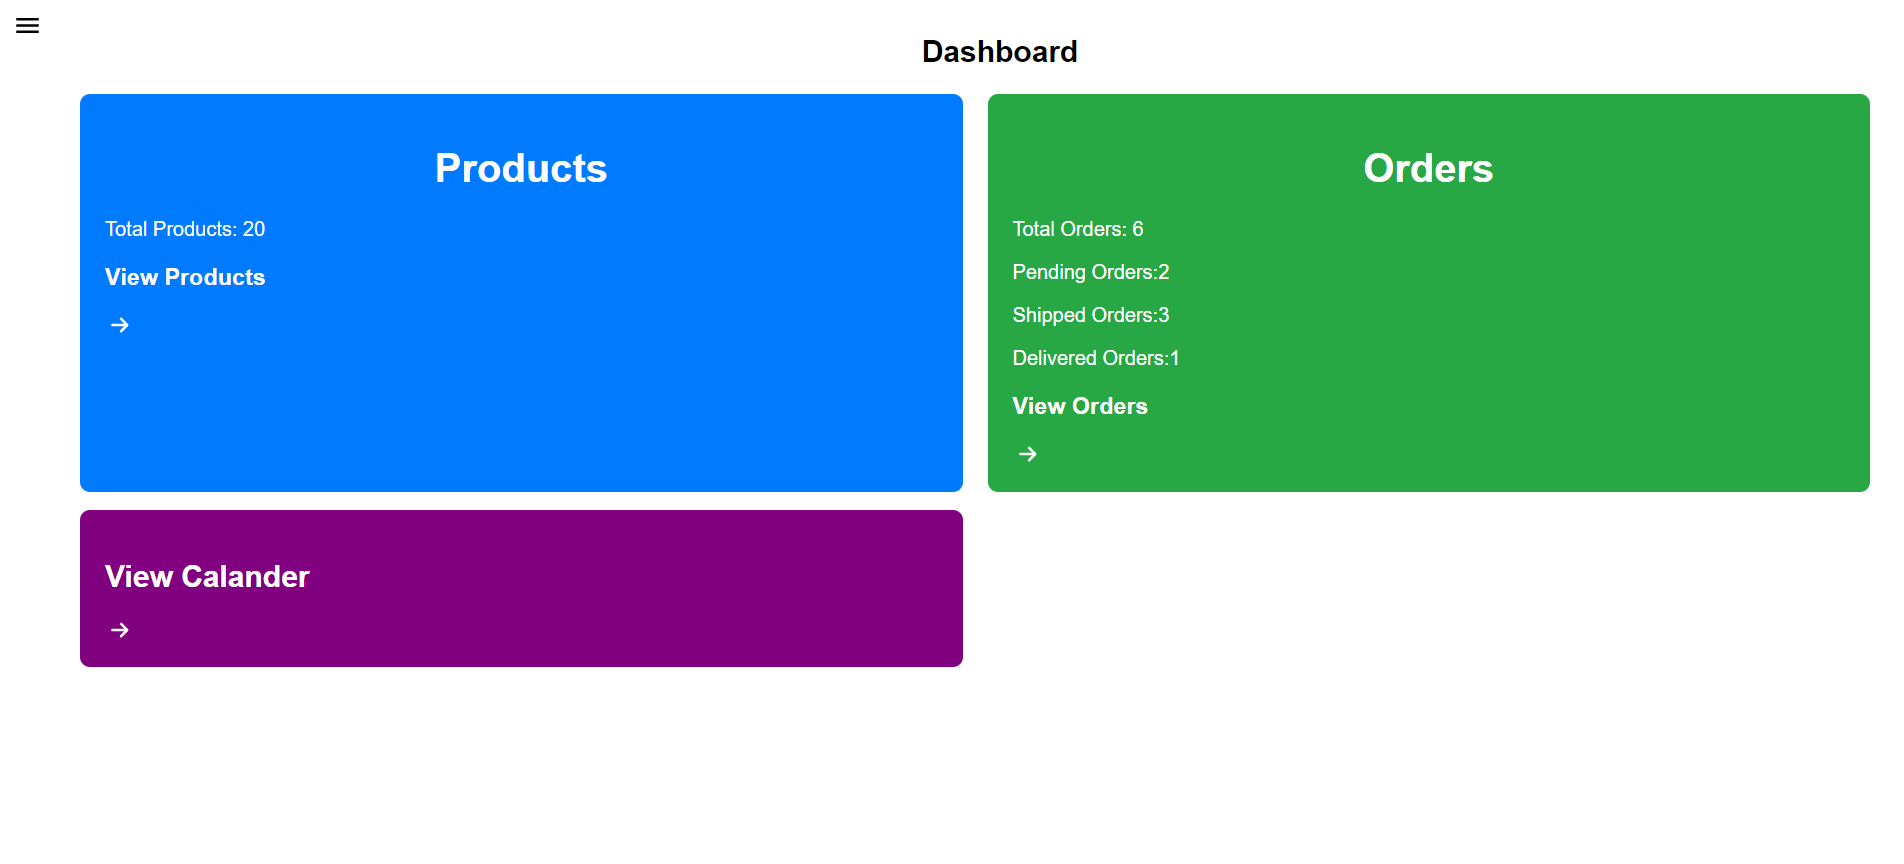
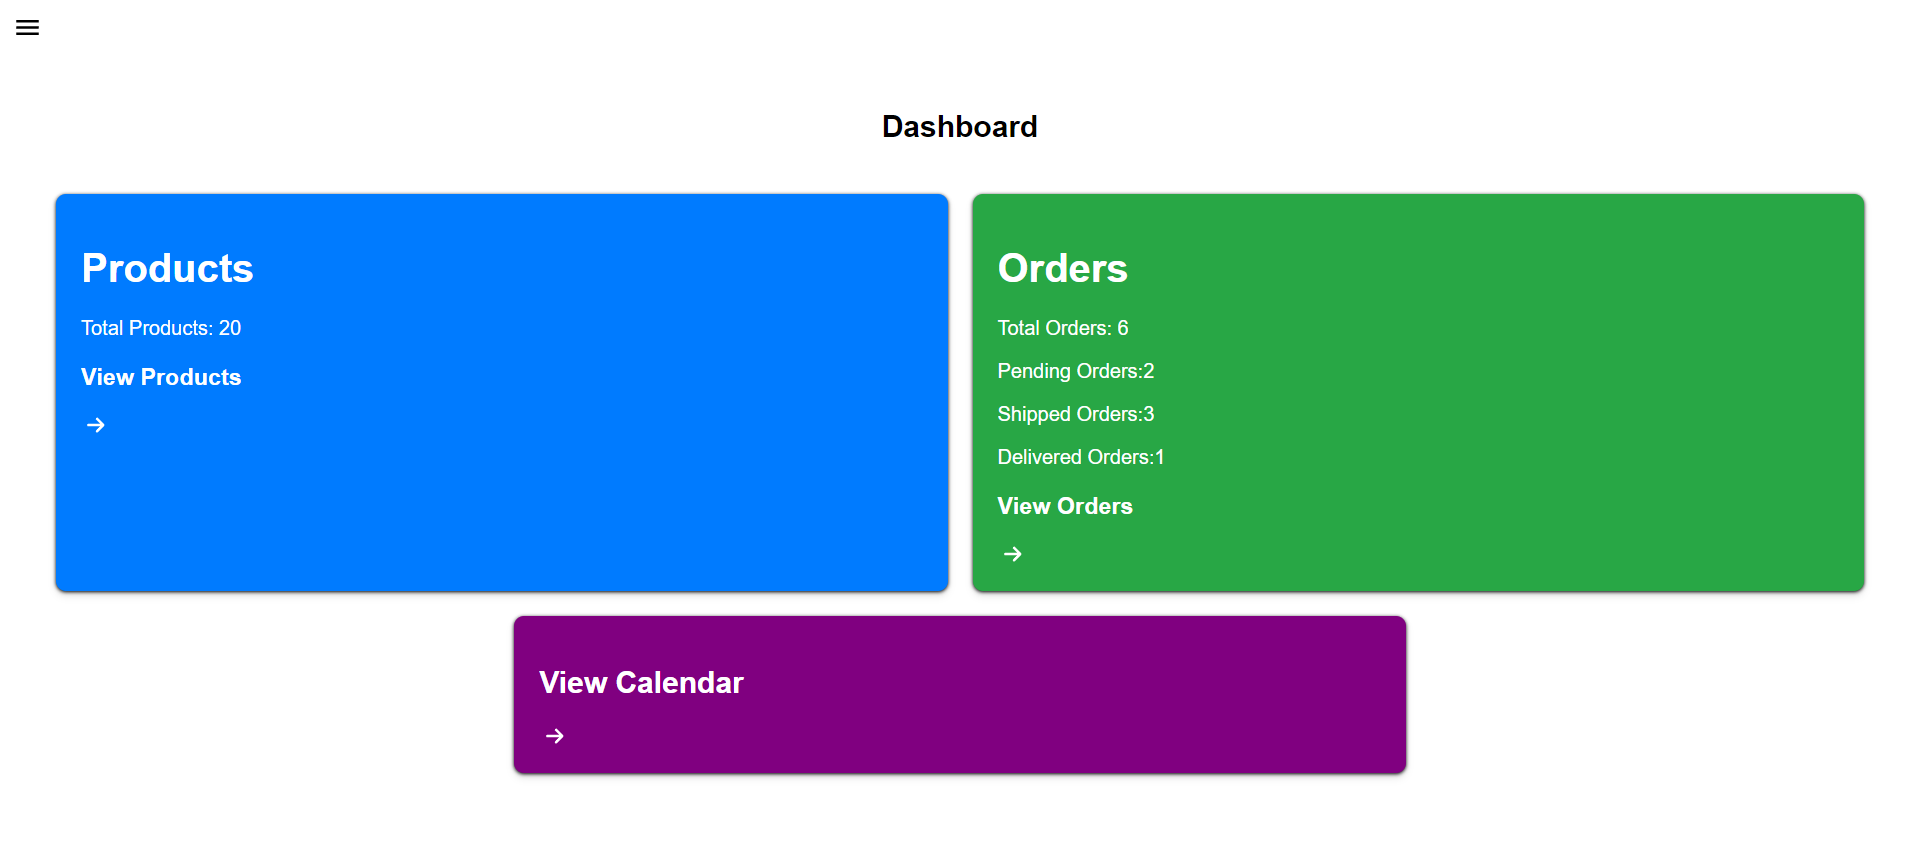
dd

diff --git a/README.md b/README.md
@@ -24,14 +24,14 @@ Each of these pages can be accessed by clicking on the name in hamburger icon on
 
 # Sidebar
 
-![Sidebar](screenshot/Sidebar.png)
+![sidebar](screenshot/sidebar.png)
 
 There Is a "hamburger icon" present on the "top left corner" on "all the pages" for navigation between the pages.
 
 
 # Dashboard
 
-![Dashboard](screenshot/Dashboard.png)
+![dashboard](screenshot/dashboard.png)
 
 	the dashboard is also the homepage.
 	the dashboard consist of widgets which give the summarized view to the erp.
@@ -42,10 +42,10 @@ There Is a "hamburger icon" present on the "top left corner" on "all the pages" 
 ![Product Page](<screenshot/Product Page.png>)
 product page
 
-![Product Edit](<screenshot/Product Edit.png>)
+![edit page](<screenshot/edit page.png>)
 product edit page
 
-![Product Add](<screenshot/Product Page.png>)
+![add page](<screenshot/add page.png>)
 product add page
 
 	the product management page consist of data of the product in the stock ,thier price and catagory
